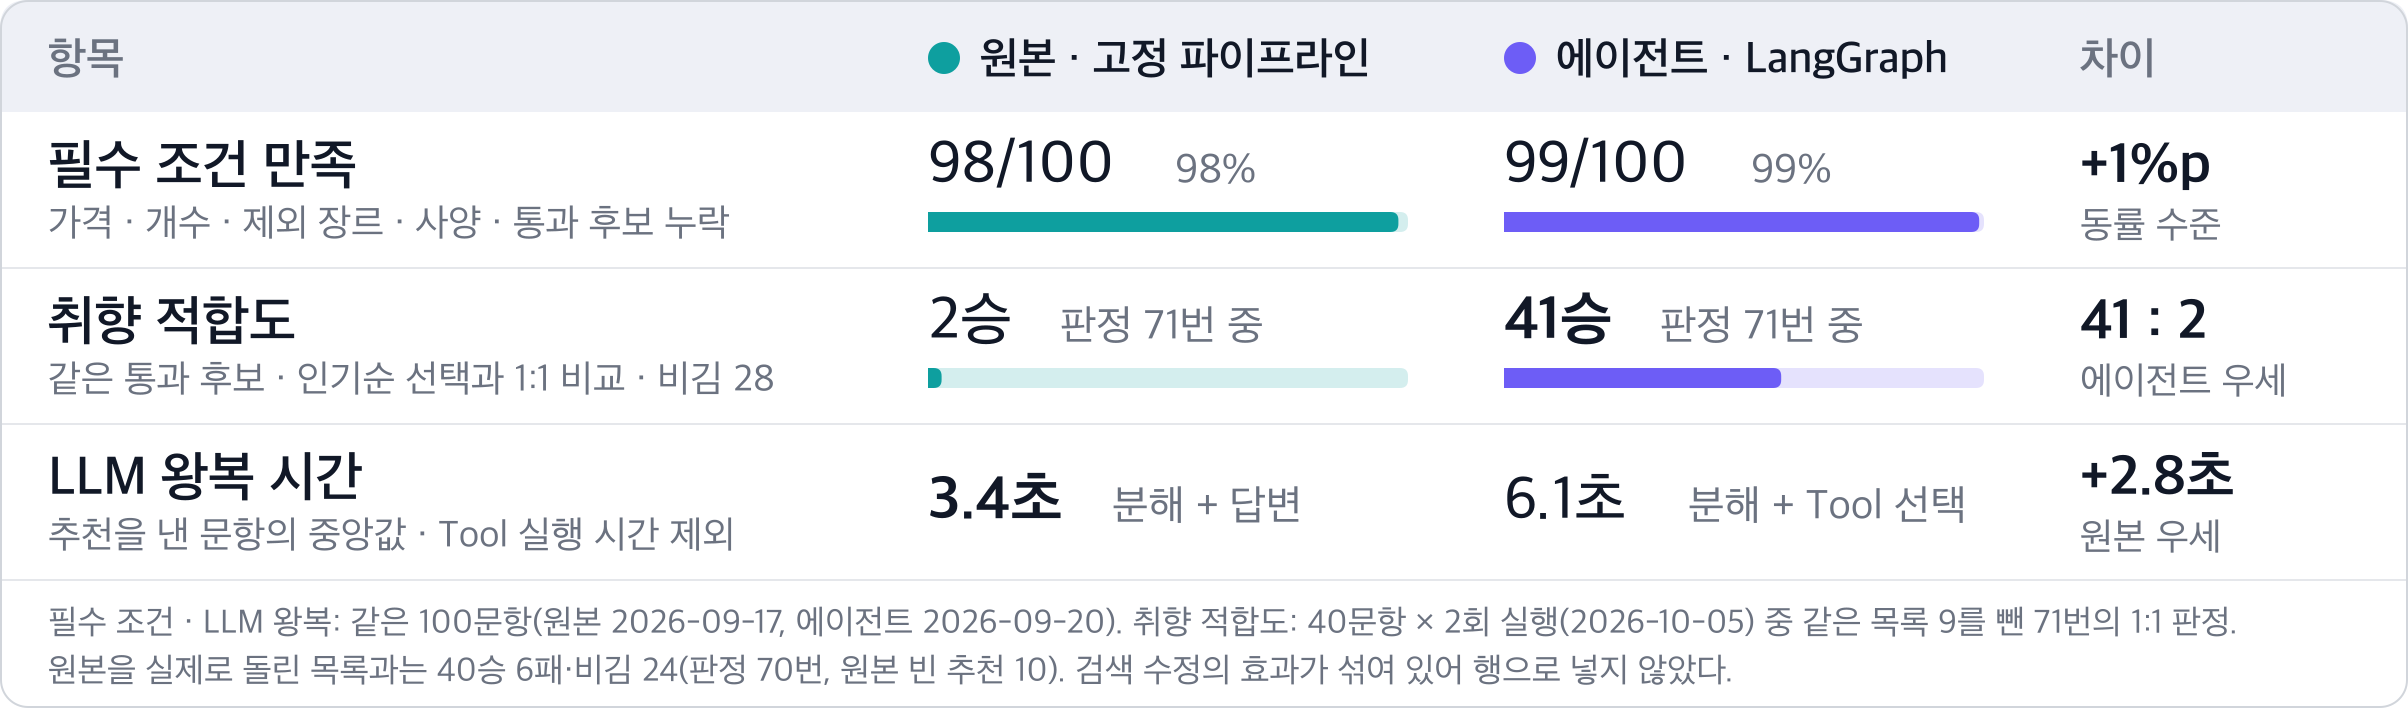
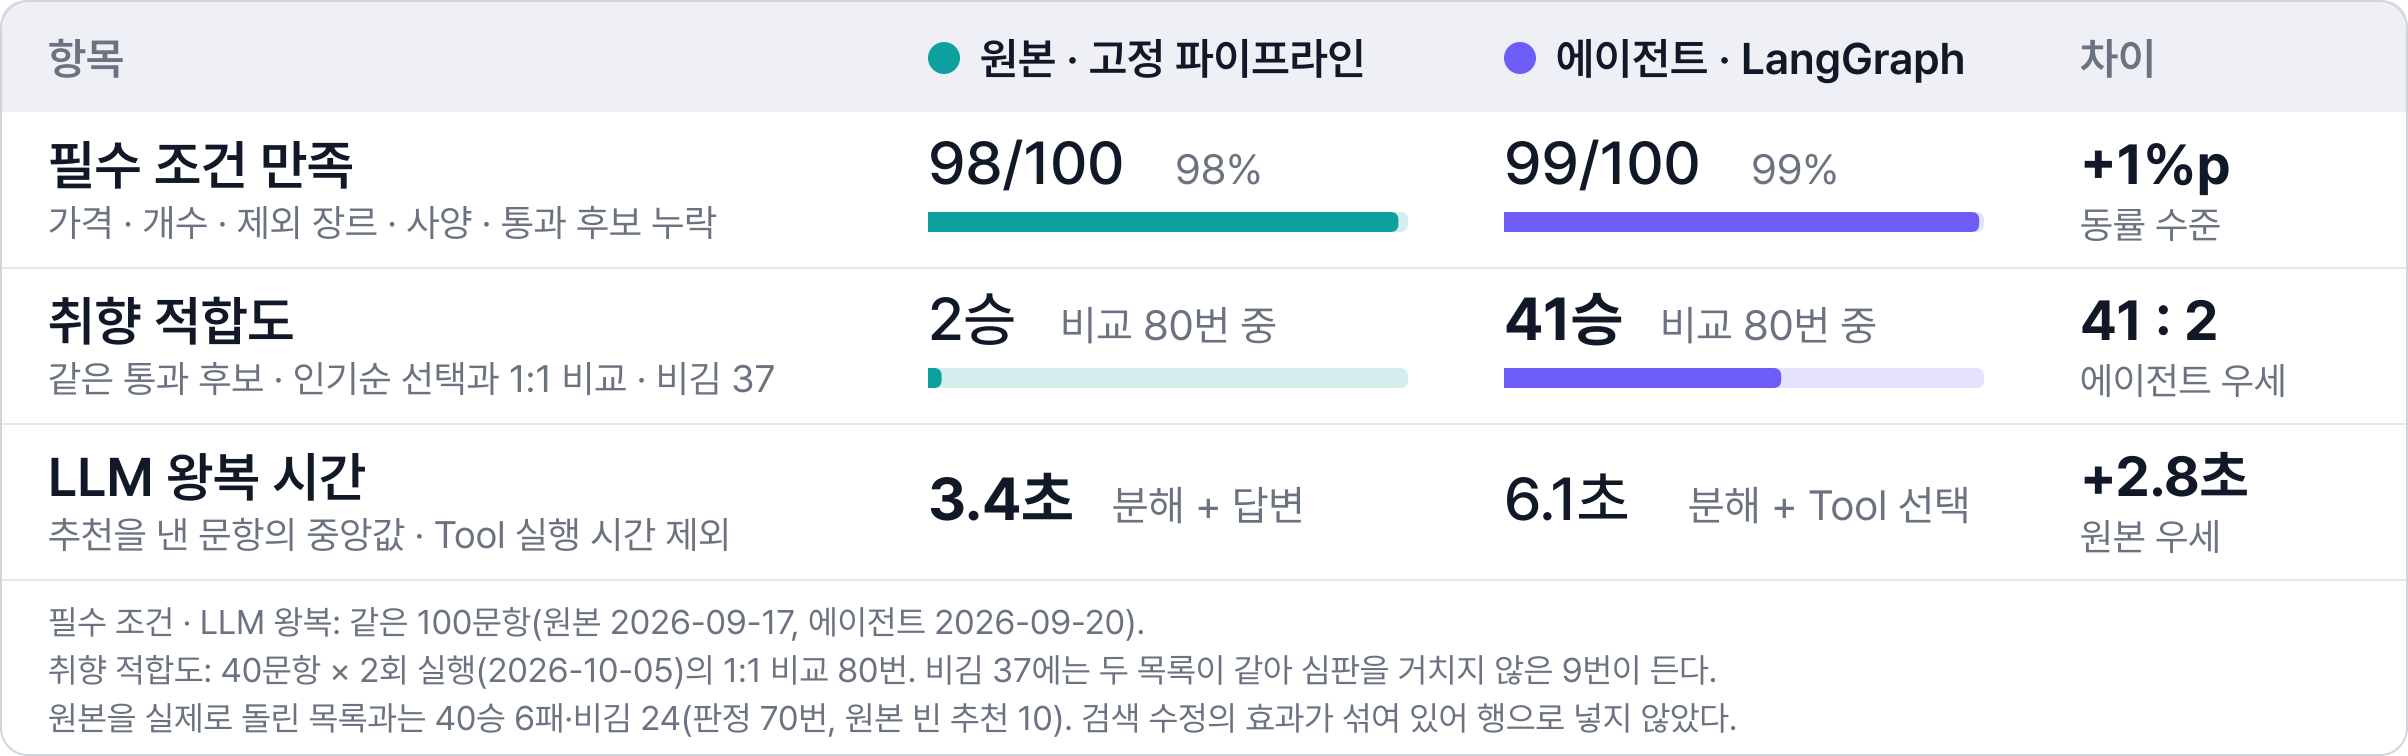
[DOCS] 취향 적합도의 같은 목록 9건을 비김에 합쳐 비교 80번 기준으로 적는다 (#48)
비교 차트(한·영 SVG와 PNG), 루트 README 두 언어, 취향 적합도 리포트와 설계 문서,
e2e 리포트의 인용을 41승 2패 비김 37(비교 80번)로 바꾼다. 원시 기록과 채점기의
`same` 분류, 리포트 표의 '같은 목록' 행은 그대로 두어 비김 28·판정 71번도 되짚을 수
있게 한다. 한글 차트는 각주를 영문판처럼 세 줄로 나눠 높이를 378로 맞춘다. PNG는
rsvg-convert -z 2로 다시 만들었다.

Claude-Session: https://claude.ai/code/session_01P7MUG4vkYjMGtyZGhrRSFN

diff --git a/README.md b/README.md
@@ -88,8 +88,9 @@ REPORT에 그대로 남겨 두었습니다.
 - **필수 조건 만족은 동률입니다(98 대 99).** 선택을 LLM에 맡겨도 가격·사양·개수·제외 조건의 준수가 깨지지
   않습니다. 판정과 후검증을 코드가 하기 때문입니다.
 - **취향 적합도가 구조의 이득입니다.** 같은 통과 후보에서 에이전트가 고른 목록과, 고정 파이프라인의 선택
-  규칙(통과 후보를 인기순으로 자른 목록)을 LLM 심판이 자리를 바꿔 두 번 비교했습니다. 판정 71번 중 에이전트
-  41승, 인기순 2승, 비김 28입니다(2026-10-05, [evals/relevance/REPORT.md](evals/relevance/REPORT.md)).
+  규칙(통과 후보를 인기순으로 자른 목록)을 LLM 심판이 자리를 바꿔 두 번 비교했습니다. 비교 80번 중 에이전트
+  41승, 인기순 2승, 비김 37입니다(2026-10-05, [evals/relevance/REPORT.md](evals/relevance/REPORT.md)).
+  비김 37에는 두 목록이 같아 심판을 거치지 않은 9번이 들어 있습니다(심판 판정만 세면 비김 28, 판정 71번).
   원본 저장소를 같은 40문항으로 실제로 돌린 목록과도 비교했습니다. 판정 70번 중 에이전트 40승, 원본 6승,
   비김 24이고, 원본은 10번 추천을 내지 못했습니다. 이 수치에는 검색 수정의 효과가 섞여 있어 그림에는
   행이 아니라 각주로만 적었습니다.

diff --git a/evals/relevance/REPORT.md b/evals/relevance/REPORT.md
@@ -124,6 +124,7 @@
 | 대조 목록(인기순) 승 | 1 | 1 | **2** | 2 |
 | 비김 | 16 | 12 | 28 | 35 |
 | 같은 목록 | 5 | 4 | 9 | 5 |
+| 비김 + 같은 목록 (인용 기준) | 21 | 16 | **37** | 40 |
 | 빈 추천 | 0 | 0 | 0 | 8 |
 | 심판까지 간 판정 | 35 | 36 | 71 | 67 |
 | 승부가 난 문항 중 에이전트 승률 | 95% | 96% | 95% | 94% |
@@ -206,7 +207,8 @@ R033(`SF 세계관의 스토리 게임`)과 R010(`유머 코드가 있는 웃긴
 
 ### 무엇을 인용하는가
 
-- 구조에서 나온 차이: **같은 후보에서 41승 2패, 비김 28(판정 71번).** 루트 README 그림의 취향 적합도 행을
+- 구조에서 나온 차이: **같은 후보에서 41승 2패, 비김 37(비교 80번).** 비김 37에는 두 목록이 같아 심판을
+  거치지 않은 9번이 든다. 심판 판정만 세면 비김 28, 판정 71번이다. 루트 README 그림의 취향 적합도 행을
   이 수치로 바꿨다.
 - 두 서비스의 차이: **원본을 실제로 돌린 목록과 40승 6패, 비김 24(판정 70번), 원본 빈 추천 10.** 검색
   수정의 효과가 섞인 수치라 그림에는 행이 아니라 각주 한 줄로만 적었다.

diff --git a/README.en.md b/README.en.md
@@ -113,8 +113,10 @@ agent). Edit the [SVG](docs/eval_comparison.en.svg), not the PNG.
   judging and the post-validation.
 - **Taste fit is what the structure buys.** From the same set of passing candidates, an LLM judge
   compared the agent's picks against the fixed pipeline's selection rule (passing candidates truncated in
-  popularity order), twice per pair with the positions swapped. Out of 71 judgements: 41 wins for the
-  agent, 2 for popularity, 28 ties (2026-10-05, [evals/relevance/REPORT.md](evals/relevance/REPORT.md)).
+  popularity order), twice per pair with the positions swapped. Out of 80 comparisons: 41 wins for the
+  agent, 2 for popularity, 37 ties (2026-10-05, [evals/relevance/REPORT.md](evals/relevance/REPORT.md)).
+  Nine of the ties are identical lists that never went to the judge (28 ties out of 71 if you count only
+  judged pairs).
   We also ran the original repository on the same 40 items and compared its actual lists: out of 70
   judgements, 40 wins for the agent, 6 for the original, 24 ties, and the original returned nothing 10
   times. That number also carries the search fixes, so the chart shows it only as a footnote.

diff --git a/evals/agent_e2e/REPORT.md b/evals/agent_e2e/REPORT.md
@@ -744,7 +744,8 @@ Tool을 실행하지 않고 안내 문장을 돌려주고, 한 번 거부된 Too
 뺀 행은 답변 형식(출력 방식과 가드, 위 분석), 추천 0개(빈 초안 되묻기와 검색 수정. 지금은 19 대 17로
 동률 수준), 전체 지연이다.
 
-> 2026-10-05에 취향 적합도를 지금 코드로 다시 재어 그림의 행을 41승 2패, 비김 28(판정 71번)로 바꿨다.
+> 2026-10-05에 취향 적합도를 지금 코드로 다시 재어 그림의 행을 41승 2패, 비김 37(비교 80번, 같은 목록 9는
+> 비김에 합산)로 바꿨다.
 > 원본 저장소를 실제로 돌린 목록과의 비교도 그때 함께 했다([evals/relevance](../relevance/REPORT.md)).
 
 **전체 지연은 구조의 효과와 부호가 반대다.** [latency_breakdown.py](latency_breakdown.py)가 단계 타임라인으로

diff --git a/evals/relevance/README.md b/evals/relevance/README.md
@@ -63,6 +63,10 @@
 읽는다. 원본 비교는 `summary.json`의 `original`에 같은 형식으로 따로 집계한다. 빈 추천은 어느 쪽이든
 승패로 세지 않는다. 목록이 없으면 무엇이 질문에 맞는지 견줄 수 없다.
 
+인용할 때는 `same`을 비김에 합쳐 센다(비김 = `tie` + `same`). 두 목록이 같으면 결과적으로 우열이 없기
+때문이다. 다만 심판이 못 가린 `tie`와 비교할 차이가 없던 `same`은 성격이 다르므로 `summary.json`과
+리포트 표에는 두 범주를 따로 남긴다.
+
 ## 문항에 넣지 않은 것
 
 - **사양 조건.** GPU·CPU 판정은 LLM이 하므로 대조 목록을 다시 계산할 때 판정이 달라질 수 있다.
